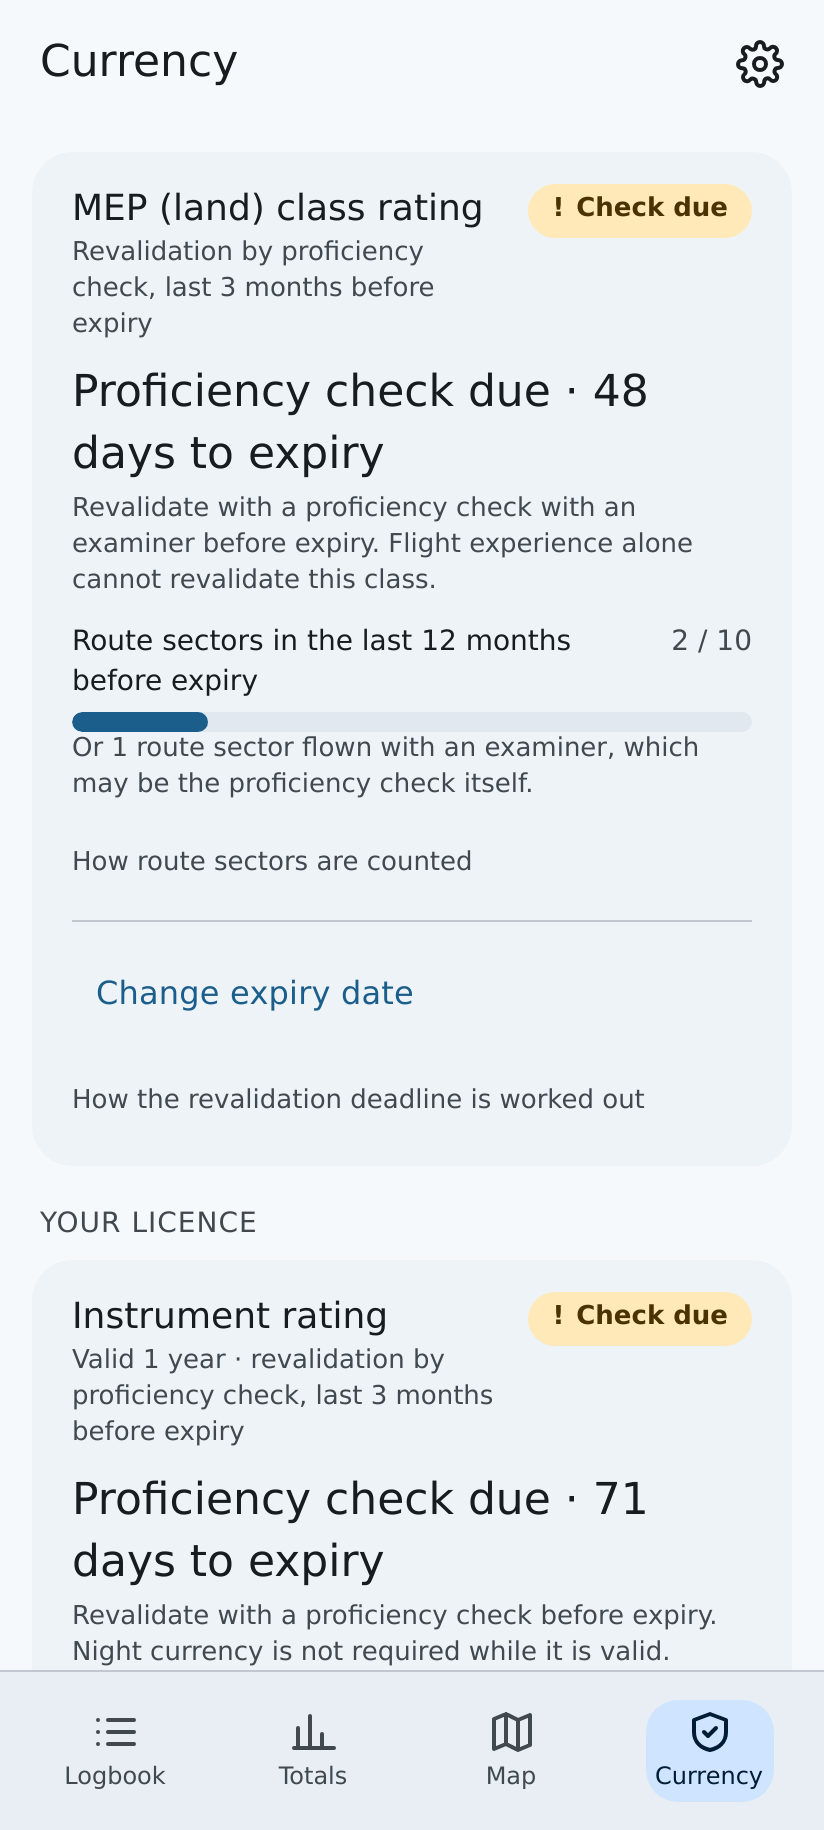
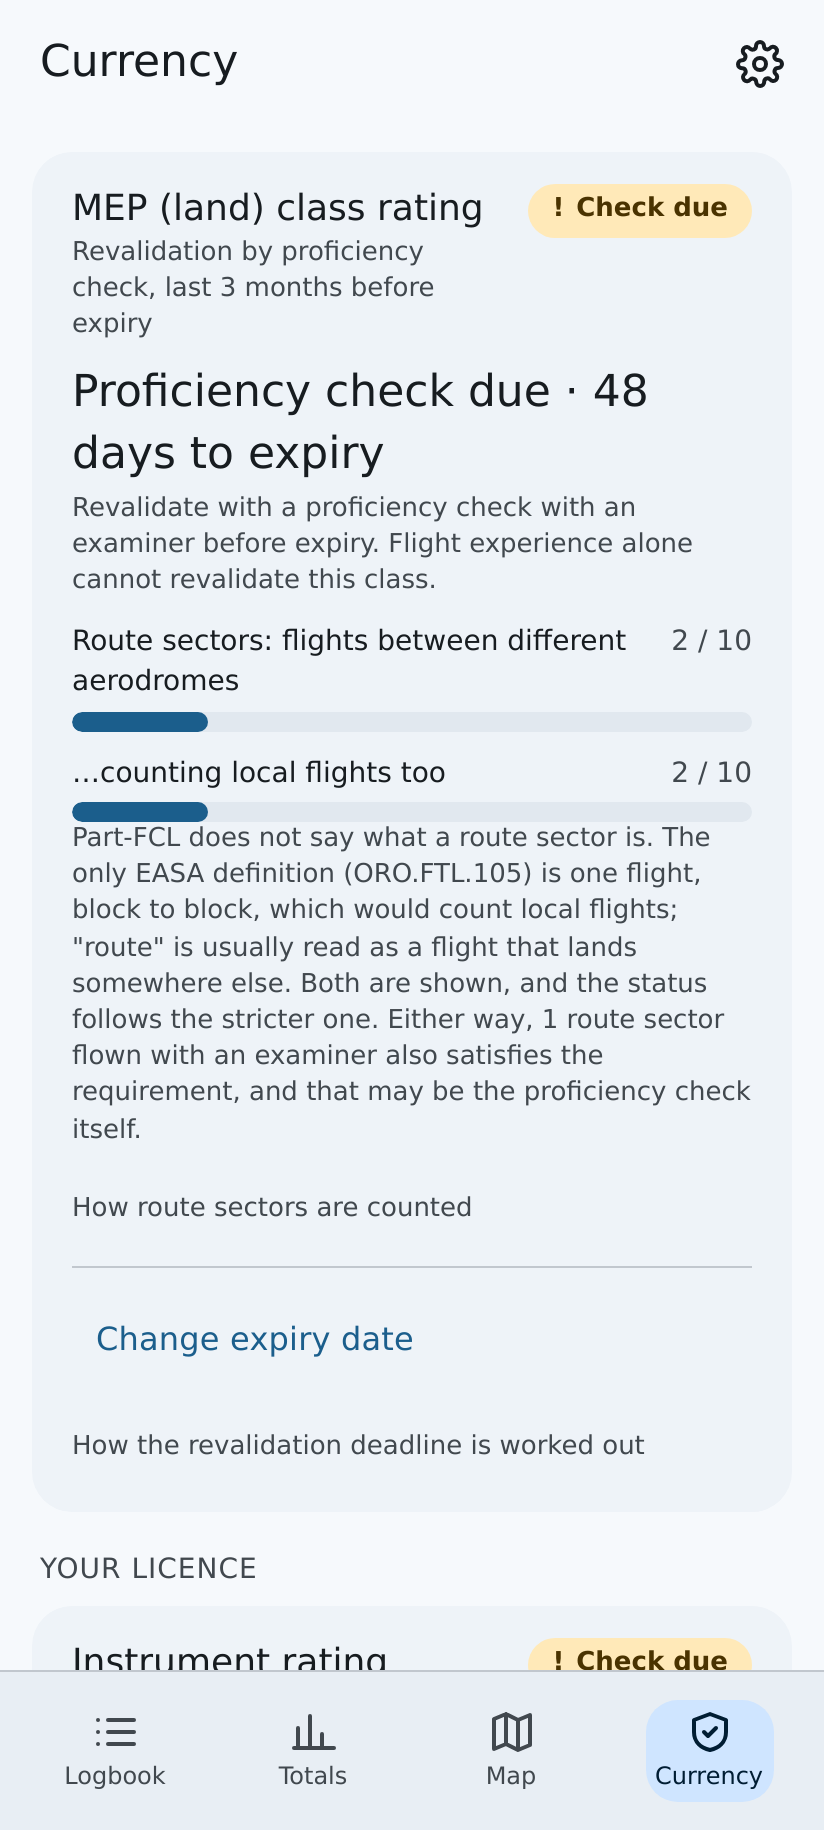
Route sectors: show both readings, and warn while there is still time
Two problems, one of them mine from last week.

Part-FCL asks for 10 "route sectors" in FCL.740.A(a)(2) and never says what one
is. I checked: there is no definition in Part-FCL, including FCL.010. The only
definition EASA gives anywhere is Part-ORO, ORO.FTL.105 -- the segment between an
aircraft first moving to take off and coming to rest after landing, one flight,
with no requirement that it end anywhere else. But "route" is usually read as a
flight from one aerodrome to another, which leaves local flying out.

The counter was quietly picking the wide reading and presenting it as a count.
It now reports both: flights in the class, and the subset that landed away. The
status follows the narrower one, so it can say you are short when you are not,
but never the reverse -- the same way round as the night-currency and IR
decisions. The card says why there are two numbers, and the rule's todo records
that the term is undefined rather than implying the only gap is missing data.

Second, the alert was timed backwards. The sectors have to be flown "during the
period of validity", so a shortfall is worth knowing early, while there is a year
left to fix it. But the alert only looked at the proficiency-check window, which
meant: green for ten months, amber once the window opened with six weeks left,
red at one week. Silent while the problem was cheap to fix, loud once it might
not be. Demonstrated across a whole validity year before changing it.
[…]

diff --git a/src/domain/alerts.ts b/src/domain/alerts.ts
@@ -1,6 +1,7 @@
 import type { AlertLevel, ClassRating, Flight, IsoDate, TypeRating } from './types';
 import { CLASS_RATINGS, CLASS_RATING_LABELS } from './types';
-import { classExpiryOf, irStatus, isExperienceClass, languageStatus, medicalStatus, nightCurrency, nightExemptByIr, passengerCurrency, proficiencyCheckStatus, sepRevalidation, typeRatingStatus, type RollingCheck } from './currency';
+import { daysBetween } from './time';
+import { classExpiryOf, irStatus, isExperienceClass, languageStatus, medicalStatus, nightCurrency, nightExemptByIr, passengerCurrency, proficiencyCheckStatus, routeSectors, sepRevalidation, typeRatingStatus, type RollingCheck } from './currency';
 import { DEFAULT_RULES, type Rules } from './rules';
 import { formatShortDate } from '../features/flights/format';
 
@@ -61,6 +62,8 @@ function ratingItem(cls: ClassRating, flights: Flight[], expiry: IsoDate, today:
   if (c.state === 'expired') return { key, level: 'expired', title: `${name} rating expired`, body: `Expired on ${date}. It has to be renewed.` };
   if (c.state === 'urgent') return { key, level: 'red', title: `${name} rating: ${plural(days, 'day')} left`, body: `Book the proficiency check with an examiner now. Expires ${date}.` };
   if (c.state === 'window-open') return { key, level: 'amber', title: `${name}: proficiency check due`, body: `The check window is open; the rating expires in ${plural(days, 'day')} (${date}).` };
+  const behind = sectorsBehindPace(flights, cls, expiry, today, rules);
+  if (behind) return { key, level: 'amber', title: `${name}: route sectors behind`, body: `${behind} Expires ${date}. One route sector flown with an examiner also satisfies the requirement, as does the commercial-operator exemption.` };
   return { key, level: 'green', title: `${name} rating ok`, body: `Valid until ${date}.` };
 }
 
@@ -74,6 +77,30 @@ function irItem(expiry: IsoDate, today: IsoDate, rules: Rules): AlertItem {
   if (c.state === 'urgent') return { key, level: 'red', title: `Instrument rating: ${plural(days, 'day')} left`, body: `Book the proficiency check with an examiner now. Expires ${date}.` };
   if (c.state === 'window-open') return { key, level: 'amber', title: 'Instrument rating: check due', body: `The check window is open; the rating expires in ${plural(days, 'day')} (${date}).` };
   return { key, level: 'green', title: 'Instrument rating ok', body: `Valid until ${date}.` };
+}
+
+/**
+ * The proficiency check is not the whole of FCL.740.A(a): the route sectors have to be flown "during
+ * the period of validity", so the time to notice a shortfall is early, while there is still a year to
+ * fix it. The check-window states say nothing about that, which left the alert green for most of the
+ * validity period and amber only once it was nearly too late to fly eight more sectors.
+ *
+ * Amber and not red, deliberately: the examiner alternative in (a)(2)(ii) and the commercial-operator
+ * exemption in (a)(3) are both invisible to the logbook, and "route sector" is itself undefined, so a
+ * shortfall here is a thing worth knowing rather than a fact.
+ */
+function sectorsBehindPace(flights: Flight[], cls: ClassRating, expiry: IsoDate, today: IsoDate, rules: Rules): string | null {
+  const s = routeSectors(flights, cls, expiry, today, rules);
+  if (!s || s.met) return null;
+  const total = daysBetween(s.windowStart, expiry);
+  const gone = daysBetween(s.windowStart, today);
+  if (total <= 0 || gone <= 0) return null;
+  const elapsed = gone / total;
+  // leave the first half of the validity period alone: a slow start is normal and nagging is not useful
+  if (elapsed < 0.5) return null;
+  if (s.routeFlights >= Math.floor(s.need * elapsed)) return null;
+  const pct = Math.round(elapsed * 100);
+  return `${s.routeFlights} of ${s.need} route sectors flown with ${pct}% of the validity period gone${s.metIfLocalCount ? ` (${s.flights} if local flights count as sectors)` : ''}.`;
 }
 
 /** One type rating. Keyed by its id, so renaming it does not look like a different rating. */

diff --git a/src/domain/currency.ts b/src/domain/currency.ts
@@ -222,21 +222,47 @@ export function classExpiryPatch(s: { classExpiry?: Partial<Record<ClassRating, 
 /** Multi-engine class ratings: route sectors during the validity period (FCL.740.A(a)(2)). */
 export const SECTOR_CLASSES: readonly ClassRating[] = ['MEP_LAND', 'MEP_SEA'];
 
+/**
+ * Part-FCL asks for "route sectors" and never says what one is. The only definition EASA gives anywhere
+ * is in Part-ORO, ORO.FTL.105: a sector is the segment between the aircraft first moving to take off and
+ * coming to rest after landing -- one flight, block to block, with no requirement that it end somewhere
+ * else. But FCL.740.A(a)(2) says "route" sector, and the usual reading of that is a flight from one
+ * aerodrome to another, which would leave out local flying.
+ *
+ * Rather than pick one and present it as a count, both are reported: every flight in the class, and the
+ * subset that landed away. `met` follows the narrow reading, because being told you are short when you
+ * are not is the harmless way round -- the reverse lets a rating lapse.
+ */
 export interface SectorProgress {
-  have: number;
+  /** Every logged flight in the class in the validity period (ORO.FTL.105's reading of a sector). */
+  flights: number;
+  /** ...of which departed and landed at different aerodromes (the narrow reading of "route"). */
+  routeFlights: number;
   need: number;
   windowStart: IsoDate;
+  /** Met on the narrow reading. */
   met: boolean;
+  /** Met only if local flights count too. */
+  metIfLocalCount: boolean;
 }
 
-/** Logged flights in the class in the validity period before expiry; one flight counts as one route sector. */
+const place = (s: string) => s.trim().toUpperCase();
+
 export function routeSectors(flights: Flight[], cls: ClassRating, expiry: IsoDate | null | undefined, today: IsoDate, rules: Rules = DEFAULT_RULES): SectorProgress | null {
   if (!expiry || !SECTOR_CLASSES.includes(cls)) return null;
   const r = rules.mepSectors;
   const windowStart = addDays(addMonths(expiry, -r.validityMonths), 1);
   const windowEnd = today < expiry ? today : expiry;
-  const have = flights.filter((f) => f.aircraftClass === cls && f.date >= windowStart && f.date <= windowEnd).length;
-  return { have, need: r.sectors, windowStart, met: have >= r.sectors };
+  const inWindow = flights.filter((f) => f.aircraftClass === cls && f.date >= windowStart && f.date <= windowEnd);
+  const routeFlights = inWindow.filter((f) => place(f.depPlace) !== place(f.arrPlace)).length;
+  return {
+    flights: inWindow.length,
+    routeFlights,
+    need: r.sectors,
+    windowStart,
+    met: routeFlights >= r.sectors,
+    metIfLocalCount: inWindow.length >= r.sectors,
+  };
 }
 
 // ---------- licence documents: medical certificate and language endorsement ----------

diff --git a/src/domain/alerts.test.ts b/src/domain/alerts.test.ts
@@ -112,3 +112,43 @@ describe('type ratings in the alerts', () => {
     expect(watchedItems([], { typeRatings: [] }, today).map((i) => i.key)).not.toContain('TYPE:a');
   });
 });
+
+describe('MEP route sectors in the rating alert', () => {
+  const expiry = '2026-06-01';              // validity window runs 2025-06-02 .. 2026-06-01
+  const mep = (d: string, away = true) => ({ ...flight(d), aircraftClass: 'MEP_LAND' as const, depPlace: 'EBKT', arrPlace: away ? 'EBOS' : 'EBKT' });
+  const level = (flights: ReturnType<typeof mep>[], on: string) =>
+    watchedItems(flights, { classExpiry: { MEP_LAND: expiry } as never }, on).find((i) => i.key === 'MEP_LAND:rating')!;
+
+  it('stays quiet through the first half of the validity period', () => {
+    expect(level([], '2025-09-01').level).toBe('green'); // ~25% gone, no sectors yet: a slow start is normal
+  });
+  it('goes amber once past halfway and behind the pace', () => {
+    const a = level([], '2026-01-01'); // ~59% gone, 0 of 10
+    expect(a.level).toBe('amber');
+    expect(a.title).toMatch(/route sectors behind/i);
+    expect(a.body).toMatch(/0 of 10 route sectors/);
+  });
+  it('stays green when the sectors are keeping pace', () => {
+    const onPace = Array.from({ length: 7 }, (_, i) => mep(`2025-1${i % 2}-0${(i % 9) + 1}`));
+    expect(level(onPace, '2026-01-01').level).toBe('green');
+  });
+  it('stays green once the requirement is met outright', () => {
+    const ten = Array.from({ length: 10 }, (_, i) => mep(`2025-08-${String(i + 1).padStart(2, '0')}`));
+    expect(level(ten, '2026-01-01').level).toBe('green');
+  });
+  it('still goes amber when the check window opens, sectors met or not', () => {
+    const ten = Array.from({ length: 10 }, (_, i) => mep(`2025-08-${String(i + 1).padStart(2, '0')}`));
+    const a = level(ten, '2026-05-01'); // inside the 3-month check window
+    expect(a.level).toBe('amber');
+    expect(a.title).toMatch(/proficiency check due/i); // the check, not the sectors
+  });
+  it('mentions the wider reading when local flights would have met it', () => {
+    const local = Array.from({ length: 12 }, (_, i) => mep(`2025-08-${String(i + 1).padStart(2, '0')}`, false));
+    const a = level(local, '2026-01-01');
+    expect(a.level).toBe('amber');
+    expect(a.body).toMatch(/12 if local flights count/);
+  });
+  it('does not override a check-window warning that is already more urgent', () => {
+    expect(level([], '2026-05-25').level).toBe('red'); // inside the 30-day red threshold
+  });
+});

diff --git a/src/domain/currency.test.ts b/src/domain/currency.test.ts
@@ -113,9 +113,23 @@ describe('nightCurrency', () => {
 describe('routeSectors (multi-engine)', () => {
   const expiry = '2026-03-31';
   const mep = (date: string) => ({ ...flight(date), aircraftClass: 'MEP_LAND' as const });
-  it('counts logged flights in the class in the 12 months before expiry', () => {
+  it('counts flights in the class in the 12 months before expiry, both readings of "sector"', () => {
     const r = routeSectors([mep('2025-06-01'), mep('2025-04-01'), mep('2025-03-31'), flight('2025-06-01')], 'MEP_LAND', expiry, '2025-12-01');
-    expect(r).toMatchObject({ have: 2, need: 10, windowStart: '2025-04-01', met: false });
+    expect(r).toMatchObject({ flights: 2, routeFlights: 2, need: 10, windowStart: '2025-04-01', met: false });
+  });
+  it('separates flights that landed away from local ones, and the status follows the stricter count', () => {
+    const local = (d: string) => ({ ...mep(d), depPlace: 'EBKT', arrPlace: 'EBKT' });
+    const away = (d: string) => ({ ...mep(d), depPlace: 'EBKT', arrPlace: 'EBOS' });
+    const flights = [...Array.from({ length: 6 }, (_, i) => local(`2025-05-0${i + 1}`)), ...Array.from({ length: 5 }, (_, i) => away(`2025-06-0${i + 1}`))];
+    const r = routeSectors(flights, 'MEP_LAND', expiry, '2025-12-01')!;
+    expect(r.flights).toBe(11);
+    expect(r.routeFlights).toBe(5);
+    expect(r.metIfLocalCount).toBe(true);   // 11 flights, if every flight is a sector
+    expect(r.met).toBe(false);              // only 5 landed away, so the strict reading is not met
+  });
+  it('treats the same aerodrome written differently as local', () => {
+    const r = routeSectors([{ ...mep('2025-06-01'), depPlace: ' ebkt ', arrPlace: 'EBKT' }], 'MEP_LAND', expiry, '2025-12-01')!;
+    expect(r.routeFlights).toBe(0);
   });
   it('only applies to multi-engine classes with an expiry date', () => {
     expect(routeSectors([], 'SET_LAND', expiry, today)).toBeNull();

diff --git a/src/domain/rules.ts b/src/domain/rules.ts
@@ -125,7 +125,8 @@ export const MULTI_ENGINE_SECTORS: SectorRule = {
   reference: 'Part-FCL FCL.740.A(a)(2): complete during the period of validity of the rating at least (i) 10 route sectors as pilot of the relevant class, or (ii) 1 route sector as pilot flown with an examiner, which may be flown during the proficiency check. A multi-engine class rating is valid for 1 year (FCL.740(a)(1)), so the window here is the 12 months before expiry.',
   verified: true,
   todo: [
-    'Limit: the logbook does not record route sectors, so every logged flight in the class during the 12 months before expiry counts as one sector.',
+    'Part-FCL asks for "route sectors" and nowhere says what one is. The only definition EASA gives is in Part-ORO, ORO.FTL.105: the segment between the aircraft first moving to take off and coming to rest after landing -- one flight, with no requirement that it end anywhere else. "Route" is usually read as a flight from one aerodrome to another, which would leave local flying out.',
+    'Both readings are therefore shown: every flight in the class, and the subset that landed away. The status follows the narrower one, so it can tell you that you are short when you are not, but never the reverse. Check which reading the authority that issued your licence takes.',
     'Limit: the alternative of 1 route sector flown with an examiner (it may be the proficiency check) is not tracked; the counter only shows the 10-sector route.',
     'Limit: a pilot working for a commercial air transport operator who passes the operator proficiency check combined with the revalidation check is exempt (FCL.740.A(a)(3)); not tracked.',
   ],

diff --git a/src/features/currency/CurrencyScreen.tsx b/src/features/currency/CurrencyScreen.tsx
@@ -204,8 +204,14 @@ function CheckCard({ cls, check }: { cls: ClassRating; check: ProficiencyCheck }
       <div className="hint">{sub[check.state]}</div>
       {sectors && check.state !== 'expired' && (
         <>
-          <Row label="Route sectors in the last 12 months before expiry" have={sectors.have} need={sectors.need} display={`${sectors.have} / ${sectors.need}`} ok={sectors.met} />
-          <div className="hint">Or 1 route sector flown with an examiner, which may be the proficiency check itself.</div>
+          <Row label="Route sectors: flights between different aerodromes" have={sectors.routeFlights} need={sectors.need} display={`${sectors.routeFlights} / ${sectors.need}`} ok={sectors.met} />
+          <Row label="…counting local flights too" have={sectors.flights} need={sectors.need} display={`${sectors.flights} / ${sectors.need}`} ok={sectors.metIfLocalCount} />
+          <div className="hint">
+            Part-FCL does not say what a route sector is. The only EASA definition (ORO.FTL.105) is one flight,
+            block to block, which would count local flights; "route" is usually read as a flight that lands
+            somewhere else. Both are shown, and the status follows the stricter one. Either way, 1 route sector
+            flown with an examiner also satisfies the requirement, and that may be the proficiency check itself.
+          </div>
           <RulesNote rule={DEFAULT_RULES.mepSectors} title="How route sectors are counted" />
         </>
       )}

diff --git a/README.md b/README.md
@@ -121,7 +121,7 @@ Airports are circles with the number of flights that started or ended there (a l
   - **Passengers at night**: 1 night take-off and 1 night landing in the last 90 days &mdash; unless you hold an instrument rating, which removes the requirement (FCL.060(b)(2)(ii)); see below.
   - **Class rating revalidation**, driven by the expiry date you enter per class:
     - *by experience* for SEP (land), SEP (sea) and TMG — 12 h in the class in the 12 months before expiry, of which 6 h as PIC, plus 12 take-offs, 12 landings and an hour of refresher training with an instructor;
-    - *by proficiency check* for MEP (land/sea) and SET (land/sea) — there is no experience route for these, so the card tracks the 3-month check window instead, and for MEP also the 10 route sectors;
+    - *by proficiency check* for MEP (land/sea) and SET (land/sea) — there is no experience route for these, so the card tracks the 3-month check window instead, and for MEP also the 10 route sectors (see below);
     - once a rating has expired the card stops counting experience and lists the **renewal** steps instead (assessment, refresher training if deemed necessary, proficiency check).
   - **Your licence** &mdash; a separate section, because none of these belong to the class chips: a type rating is per aircraft type rather than per class, and the rest are held once and apply whatever you are flying.
   - **Instrument rating**, tracked by its own expiry date: valid 1 year, revalidated by a proficiency check in the 3 months before expiry (FCL.625). It is not a class rating, so it has its own card outside the class chips.
@@ -138,6 +138,8 @@ Airports are circles with the number of flights that started or ended there (a l
 - **Every regulatory number lives in `src/domain/rules.ts`**, each with the point it comes from, so a correction is a one-line change. They were checked word by word on 23 November 2026 against FCL.060, FCL.740 and FCL.740.A in the **[EASA Easy Access Rules for Aircrew](https://www.easa.europa.eu/en/document-library/easy-access-rules/online-publications/easy-access-rules-aircrew)** (Regulation (EU) No 1178/2011, revision from October 2026, carrying the amendments of Regulation (EU) 2024/2076). Cards whose rule is not verified show an "Unverified rule" label; none of the currency rules do any more.
   - Check against EASA's own text, not a national library: the **UK CAA**'s retained FCL.740.A(b)(1)(ii) lets the 12 hours be spread over the whole validity period as long as 6 fall in the last 12 months, so the SEP figures here are wrong for a UK licence.
   - What the app still cannot know is listed on each card under "How this is calculated" and in the `todo` of each rule: the logbook records no "pilot flying" flag (so every logged take-off and landing is counted), simulator take-offs and landings are never counted although the rule allows them, DUAL time stands in for the refresher flight with an FI or CRI, an instrument rating exempts you from the night requirement but the app does not track ratings, and previous-experience carry-ins have no dates so they never count.
+- **"Route sector" is not defined in Part-FCL.** FCL.740.A(a)(2) asks for 10 of them and never says what one is. The only definition EASA gives anywhere is in Part-ORO, ORO.FTL.105: the segment between an aircraft first moving to take off and coming to rest after landing — one flight, with no requirement that it end somewhere else. But "route" is usually read as a flight from one aerodrome to another, which would leave local flying out. The app therefore shows **both** counts, flights in the class and the subset that landed away, and the status follows the stricter one: it can tell you that you are short when you are not, never the reverse.
+- The MEP rating **alert** reflects the sector shortfall, not just the expiry date. The sectors have to be flown across the whole validity period, so the moment to act is early; an alert that only woke up when the check window opened was silent for ten months and then warned you with six weeks left. It goes amber once past halfway and behind the pace — amber and not red, because the examiner alternative in (a)(2)(ii) and the commercial-operator exemption in (a)(3) are both invisible to the logbook.
 - Not modelled: instructor and examiner certificates (FCL.940, FCL.1025 &mdash; 3 years each), the mountain rating (FCL.815) and towing privileges (FCL.805); the BIR (FCL.835), the IR(H)/IR(As) variants, and the FCL.625(d) rule that an IR unused for 7 years needs the theory exam and skill test again &mdash; the app does not know your rating history. Each is noted on the card it would belong to.
 - Day-count boundaries are conservative (an event counts on its own day and the 89 days after). The amber and "urgent" thresholds — 14 days before a rolling currency lapses, 60 days for unmet revalidation experience, 30 days for an outstanding proficiency check — are app choices, not regulation.
 
